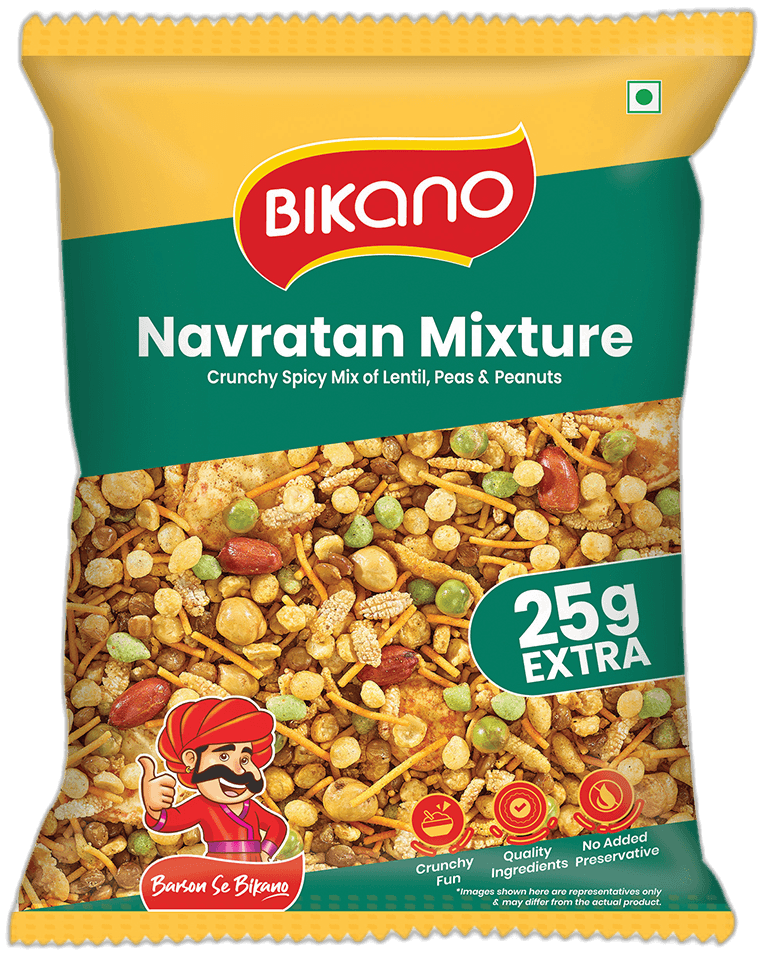
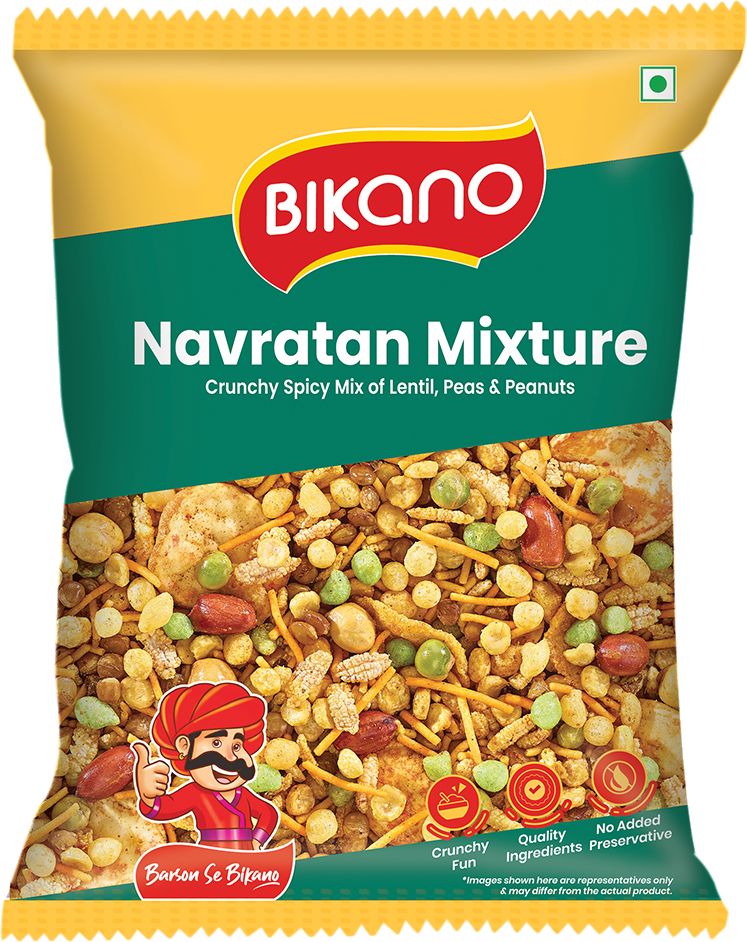
Refresh Namkeen catalog with new product images from Bikano Images folder
- Updated 10 existing product images (Aloo Bhujia, Bhujia, Khatta Meetha,
  Navratan Mixture, Peanuts, Moong Dal, 3x Chatpat Papad, Masala Boondi)
- Added 18 new namkeen products (Dal Mixture, Badam Lachha, Lajawab
  Mixture, Bhelpuri Mixture, Boondi, Chana Dal, Matar Masala, Bombay
  Mixture, Boondi Pudina, Shahi Mixture, Barbeque Roasted Peanuts, Diet
  Mixture, Paneer Bhujia, Tarang Mixture, Teekha Mixture, All Time
  Mixture, All In One, Tasty Spicy Coated Peanuts)
- Removed Falahari Mixture/Makhana/Falahari Wafers (not part of this
  image batch)
- Reordered catalog: Aloo Bhujia, Bhujia, Paneer Bhujia, Khatta Meetha,
  Navratan Mixture first, then the rest

Rollback: git checkout before-namkeen-image-refresh-20260811_021720

diff --git a/index.html b/index.html
@@ -187,17 +187,32 @@
           >
             <img src="./assets/images/aloobhujia.png" alt="Bikano Aloo Bhujia" />
             <img src="./assets/images/bhujia.png" alt="Bikano Bhujia" />
-            <img src="./assets/images/peanuts.png" alt="Bikano Peanuts" />
+            <img src="./assets/images/paneerbhujia.png" alt="Bikano Paneer Bhujia" />
             <img src="./assets/images/khattameetha.png" alt="Bikano Khatta Meetha" />
             <img src="./assets/images/navratanmixture.png" alt="Bikano Navratan Mixture" />
+            <img src="./assets/images/peanuts.png" alt="Bikano Peanuts" />
             <img src="./assets/images/moongdaal.png" alt="Bikano Moong Dal" />
             <img src="./assets/images/chatpatpapadchatakmasala.png" alt="Bikano Chatpat Papad Chatak Masala" />
             <img src="./assets/images/chatpatpapadheengmasala.png" alt="Bikano Chatpat Papad Heeng Masala" />
             <img src="./assets/images/chatpatpapadpudinamasala.png" alt="Bikano Chatpat Papad Pudina Masala" />
             <img src="./assets/images/masalaboondi.png" alt="Bikano Masala Boondi" />
-            <img src="./assets/images/falaharimixture.png" alt="Bikano Falahari Mixture" />
-            <img src="./assets/images/makhana.png" alt="Bikano Makhana Himalayan Salt Foxnuts" />
-            <img src="./assets/images/falahariwafers.png" alt="Bikano Falahari Wafers Himalayan Pink Salt" />
+            <img src="./assets/images/dalmixture.png" alt="Bikano Dal Mixture" />
+            <img src="./assets/images/badamlachha.png" alt="Bikano Badam Lachha" />
+            <img src="./assets/images/lajawabmixture.png" alt="Bikano Lajawab Mixture" />
+            <img src="./assets/images/bhelpurimixture.png" alt="Bikano Bhelpuri Mixture" />
+            <img src="./assets/images/boondi.png" alt="Bikano Boondi" />
+            <img src="./assets/images/chanadal.png" alt="Bikano Chana Dal" />
+            <img src="./assets/images/matarmasala.png" alt="Bikano Matar Masala" />
+            <img src="./assets/images/bombaymixture.png" alt="Bikano Bombay Mixture" />
+            <img src="./assets/images/boondipudina.png" alt="Bikano Boondi Pudina" />
+            <img src="./assets/images/shahimixture.png" alt="Bikano Shahi Mixture" />
+            <img src="./assets/images/barbequepeanuts.png" alt="Bikano Barbeque Roasted Peanuts" />
+            <img src="./assets/images/dietmixture.png" alt="Bikano Diet Mixture" />
+            <img src="./assets/images/tarangmixture.png" alt="Bikano Tarang Mixture" />
+            <img src="./assets/images/teekhamixture.png" alt="Bikano Teekha Mixture" />
+            <img src="./assets/images/alltimemixture.png" alt="Bikano All Time Mixture" />
+            <img src="./assets/images/allinone.png" alt="Bikano All In One" />
+            <img src="./assets/images/tastypeanuts.png" alt="Bikano Tasty Spicy Coated Peanuts" />
           </div>
           <div
             class="all-things-craveable__catalog-group"
